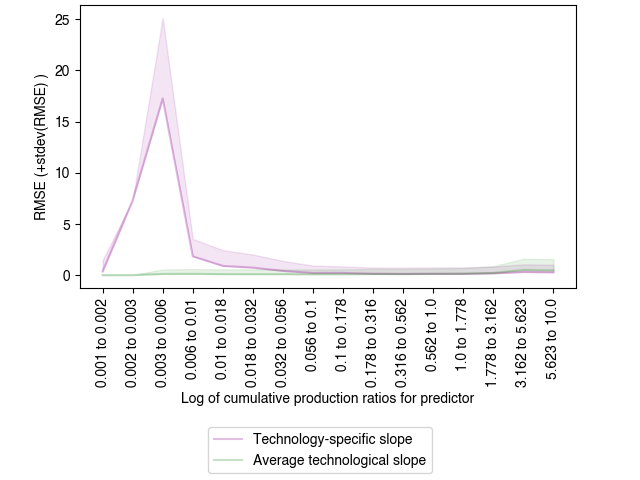
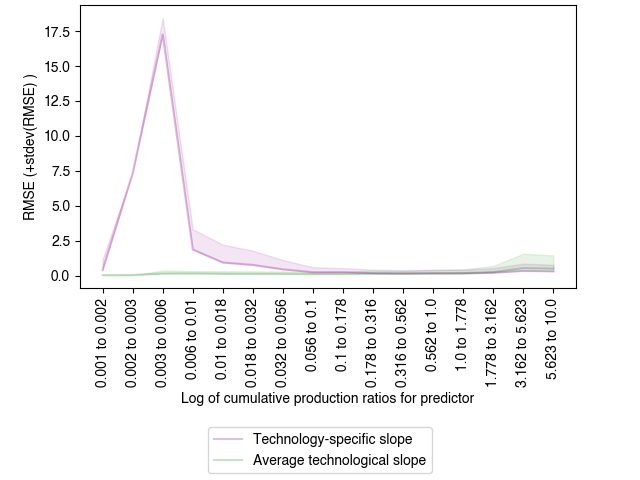
fixing mistake in prediction+error plot

diff --git a/Method2.py b/Method2.py
@@ -212,7 +212,7 @@ for i in range(std1.shape[0]):
 		if count[i,j] > 0:
 			plt.scatter(i,j,
 		      color=matplotlib.cm.viridis(norm(std1[i,j])),
-			  s=2+count[i,j]/100, alpha=0.5, lw=0.5, edgecolor='k')
+			  s=2+counttech[i,j]*2, alpha=0.5, lw=0.5, edgecolor='k')
 plt.gca().set_xticks([x for x in range(len(frac)-1)], 
         [str(round(x,3))+' to '+str(round(y,3)) for x, y in zip(frac[:-1], frac[1:])],
         rotation = 90)
@@ -223,8 +223,8 @@ plt.xlabel('Log of cumulative production ratios for predictor')
 plt.colorbar(matplotlib.cm.ScalarMappable(cmap='viridis', norm=norm), 
 	     label='Std of RMSE')
 legend_elements = [matplotlib.lines.Line2D([0],[0], lw=0, marker='o', markersize=2**0.5, color='k', label='1 data point'),
-		   matplotlib.lines.Line2D([0],[0], lw=0, marker='o', markersize=(2+np.max(count)/100)**0.5, color='k', label=str(int(np.max(count)))+' data points')]
-plt.gcf().legend(handles=legend_elements, ncol=2, title='Number of data points', loc='lower center')
+		   matplotlib.lines.Line2D([0],[0], lw=0, marker='o', markersize=(2+np.max(counttech*2))**0.5, color='k', label=str(int(np.max(counttech)))+' technologies')]
+plt.gcf().legend(handles=legend_elements, ncol=2, title='Number of technologies', loc='lower center')
 plt.subplots_adjust(bottom=0.4, left=0.2, right=0.95, top=0.9)
 plt.title('Technology-specific')
 
@@ -236,7 +236,7 @@ for i in range(std1.shape[0]):
 		if count[i,j] > 0:
 			plt.scatter(i,j,
 		      color=matplotlib.cm.viridis(norm(std2[i,j])),
-			  s=2+count[i,j]/100, alpha=0.5, lw=0.5, edgecolor='k')
+			  s=2+counttech[i,j]*2, alpha=0.5, lw=0.5, edgecolor='k')
 plt.gca().set_xticks([x for x in range(len(frac)-1)], 
         [str(round(x,3))+' to '+str(round(y,3)) for x, y in zip(frac[:-1], frac[1:])],
         rotation = 90)
@@ -246,9 +246,9 @@ plt.ylabel('Log of cumulative production ratios for prediction')
 plt.xlabel('Log of cumulative production ratios for predictor')
 plt.colorbar(matplotlib.cm.ScalarMappable(cmap='viridis', norm=norm), 
 	     label='Std of RMSE')
-legend_elements = [matplotlib.lines.Line2D([0],[0], lw=0, marker='o', markersize=2**0.5, color='k', label='1 data point'),
-		   matplotlib.lines.Line2D([0],[0], lw=0, marker='o', markersize=(2+np.max(count)/100)**0.5, color='k', label=str(int(np.max(count)))+' data points')]
-plt.gcf().legend(handles=legend_elements, ncol=2, title='Number of data points', loc='lower center')
+legend_elements = [matplotlib.lines.Line2D([0],[0], lw=0, marker='o', markersize=2**0.5, color='k', label='1 technology'),
+		   matplotlib.lines.Line2D([0],[0], lw=0, marker='o', markersize=(2+np.max(counttech)*2)**0.5, color='k', label=str(int(np.max(counttech)))+' technologies')]
+plt.gcf().legend(handles=legend_elements, ncol=2, title='Number of technologies', loc='lower center')
 plt.subplots_adjust(bottom=0.4, left=0.2, right=0.95, top=0.9)
 plt.title('Average technology')
 
@@ -271,61 +271,64 @@ cbar.set_label('RMSE difference')
 plt.subplots_adjust(bottom=0.3, left=0.2, right=0.95, top=0.9)
 plt.suptitle('Average technology - Technology-specific')
 
-# sel = df.loc[df['Tech']=='Photovoltaics']
-# x, y = np.log10(sel['Cumulative production'].values), np.log10(sel['Unit cost'].values)
-# H = len(x)
-# for i in range(H):
-# 	for N in range(i-1, -1, -1):
-# 		slope = (y[i] - y[N]) /\
-# 			(x[i] - x[N])
-# 		# add linear regression method
-# 		if method=='regression':
-# 			model = sm.OLS(y[N:i+1], sm.add_constant(x[N:i+1]))
-# 			result = model.fit()
-# 			slope = result.params[1]
-# 		# compute error associated using slope M points after midpoint
-# 		plt.figure(figsize=(8,7))
-# 		plt.scatter(10**x, 10**y, edgecolor='r', facecolor='none')
-# 		plt.scatter(10**x[N:i+1], 10**y[N:i+1], color='r')
-# 		for M in range(i+1, H):
-# 			pred =  y[i] + slope * (x[M] - x[i])
-# 			# if method=='regression':
-# 			# 	pred = result.params[0] + slope * x[M]
-# 			pred2 =  y[i] + slopeall * (x[M] - x[i])
-# 			plt.scatter(10**x[M], 10**pred, color='b')
-# 			plt.scatter(10**x[M], 10**pred2, color='g')
-# 			plt.xscale('log', base=10)
-# 			plt.yscale('log', base=10)
-# 			predordiff = x[i] - x[N]
-# 			predondiff = x[M] - x[i]
-# 			idxor = np.where(frac >= predordiff)[0][0]-1
-# 			idxon = np.where(frac >= predondiff)[0][0]-1
-# 			plt.plot([10**x[M],10**x[M]],
-# 	    		[10**(pred-std1[idxor][idxon]),10**(pred+std1[idxor][idxon])], ':',
-# 	    		marker='_', color='b', alpha = min(1.0, 0.1 + 0.9*counttech[idxor][idxon]/np.max(counttech)))
-# 			plt.plot([10**x[M],10**x[M]],
-# 	    		[10**(pred2-std2[idxor][idxon]),10**(pred2+std2[idxor][idxon])], '--',
-# 	    		marker='_', color='g', alpha = min(1.0, 0.1 + 0.9*counttech[idxor][idxon]/np.max(counttech)))
-# 		plt.title(sel['Tech'].values[0])
-# 		plt.xlabel('Cumulative production')
-# 		plt.ylabel('Unit cost')
-# 		legend_elements = [
-# 			matplotlib.lines.Line2D([0],[0], lw=0, label='$\\bf{Data\ points}$'),
-# 			matplotlib.lines.Line2D([0],[0], lw=0, marker='o', markersize=5, color='r', label='Observations'),
-# 			matplotlib.lines.Line2D([0],[0], lw=0, marker='o', markersize=5, color='b', label='Prediction - Technology-specific'),
-# 			matplotlib.lines.Line2D([0],[0], lw=0, marker='o', markersize=5, color='g', label='Prediction - Average technological slope'),
-# 			matplotlib.lines.Line2D([0],[0], lw=0, label='$\\bf{Uncertainty\ around\ predictions}$'),
-# 			matplotlib.lines.Line2D([0],[0], lw=1, ls=':', markersize=5, color='b', label='+/- 1 std (Technology-specific)'),
-# 			matplotlib.lines.Line2D([0],[0], lw=1, ls='--', markersize=5, color='g', label='+/- 1 std (Average technological slope)'),
-# 			matplotlib.lines.Line2D([0],[0], lw=0, label='$\\bf{Support\ for\ uncertainty\ estimation}$'),
-# 			matplotlib.lines.Line2D([0],[0], lw=1, alpha=1, color='k', label=str(int(np.max(counttech)))+' technologies'),
-# 			matplotlib.lines.Line2D([0],[0], lw=1, alpha=0.1, color='k', label='1 technology')
-# 		]
-# 		plt.gcf().legend(handles=legend_elements, loc='lower center')
-# 		plt.subplots_adjust(bottom=0.4, right=0.97, top=0.95, left=0.08)
-# 		plt.pause(.01)
-# 		input()
-# 		plt.close()
+sel = df.loc[df['Tech']=='Photovoltaics']
+x, y = np.log10(sel['Cumulative production'].values), np.log10(sel['Unit cost'].values)
+H = len(x)
+for i in range(H):
+	for N in range(i-1, -1, -1):
+		slope = (y[i] - y[N]) /\
+			(x[i] - x[N])
+		# add linear regression method
+		if method=='regression':
+			model = sm.OLS(y[N:i+1], sm.add_constant(x[N:i+1]))
+			result = model.fit()
+			slope = result.params[1]
+		# compute error associated using slope M points after midpoint
+		plt.figure(figsize=(8,7))
+		plt.scatter(10**x, 10**y, edgecolor='r', facecolor='none', zorder=10)
+		plt.scatter(10**x[N:i+1], 10**y[N:i+1], color='r', zorder=10)
+		for M in range(i+1, H):
+			pred =  y[i] + slope * (x[M] - x[i])
+			# if method=='regression':
+			# 	pred = result.params[0] + slope * x[M]
+			pred2 =  y[i] + slopeall * (x[M] - x[i])
+			plt.scatter(10**x[M], 10**pred, color='b', zorder=1)
+			plt.scatter(10**x[M], 10**pred2, color='g', zorder=1)
+			plt.xscale('log', base=10)
+			plt.yscale('log', base=10)
+			predordiff = x[i] - x[N]
+			predondiff = x[M] - x[i]
+			idxor = np.where(frac >= predordiff)[0][0]-1
+			idxon = np.where(frac >= predondiff)[0][0]-1
+			plt.plot([10**x[M],10**x[M]],
+	    		[10**(pred-mean1[idxor][idxon]),10**(pred+mean1[idxor][idxon])], ':',
+	    		marker='_', color='b', 
+				alpha = min(1.0, 0.1 + 0.9*counttech[idxor][idxon]/np.max(counttech)))
+			plt.plot([10**x[M],10**x[M]],
+	    		[10**(pred2-mean2[idxor][idxon]),10**(pred2+mean2[idxor][idxon])], '--',
+	    		marker='_', color='g', 
+				alpha = min(1.0, 0.1 + 0.9*counttech[idxor][idxon]/np.max(counttech)))
+		plt.title(sel['Tech'].values[0])
+		plt.xlabel('Cumulative production')
+		plt.ylabel('Unit cost')
+		legend_elements = [
+			matplotlib.lines.Line2D([0],[0], lw=0, label='$\\bf{Data\ points}$'),
+			matplotlib.lines.Line2D([0],[0], lw=0, marker='o', markersize=5, color='none', markeredgecolor='r', label='Observations'),
+			matplotlib.lines.Line2D([0],[0], lw=0, marker='o', markersize=5, color='r', label='Observations used to build technology-specific predictive model'),
+			matplotlib.lines.Line2D([0],[0], lw=0, marker='o', markersize=5, color='b', label='Prediction - Technology-specific'),
+			matplotlib.lines.Line2D([0],[0], lw=0, marker='o', markersize=5, color='g', label='Prediction - Average technological slope'),
+			matplotlib.lines.Line2D([0],[0], lw=0, label='$\\bf{Uncertainty\ around\ predictions}$'),
+			matplotlib.lines.Line2D([0],[0], lw=1, ls=':', markersize=5, color='b', label='+/- 1 RMSE (Technology-specific)'),
+			matplotlib.lines.Line2D([0],[0], lw=1, ls='--', markersize=5, color='g', label='+/- 1 RMSE (Average technological slope)'),
+			matplotlib.lines.Line2D([0],[0], lw=0, label='$\\bf{Number\ of\ technologies\ used\ to\ estimate\ uncertainty\ (both\ methods)}$'),
+			matplotlib.lines.Line2D([0],[0], lw=1, alpha=1, color='k', label=str(int(np.max(counttech)))+' technologies'),
+			matplotlib.lines.Line2D([0],[0], lw=1, alpha=0.1, color='k', label='1 technology')
+		]
+		plt.gcf().legend(handles=legend_elements, loc='lower center')
+		plt.subplots_adjust(bottom=0.425, right=0.97, top=0.95, left=0.08)
+		plt.pause(.01)
+		input()
+		plt.close()
 
 
 plt.figure()
@@ -350,29 +353,27 @@ plt.gcf().legend(handles=legend_elements, ncol=2, title='Number of data points',
 plt.subplots_adjust(bottom=0.4, left=0.2, right=0.95, top=0.9)
 plt.title('Average technology - Technology-specific')
 
-plt.figure()
-for i in range(mean1.shape[0]):
-	for j in range(mean1.shape[1]-1,-1,-1):
-		if counttech[i,j] > 0:
-			plt.scatter(i,j,
-		      color=matplotlib.cm.RdBu_r(divnorm(meandiff[i,j].flatten())),
-			  s=2+counttech[i,j]*2, alpha=0.5, lw=0.5, edgecolor='k')
-plt.gca().set_xticks([x for x in range(len(frac)-1)], 
-        [str(round(x,3))+' to '+str(round(y,3)) for x, y in zip(frac[:-1], frac[1:])],
-        rotation = 90)
-plt.gca().set_yticks([x for x in range(len(frac)-1)], 
-        [str(round(x,3))+' to '+str(round(y,3)) for x, y in zip(frac[:-1], frac[1:])])
-plt.ylabel('Log of cumulative production ratios for prediction')
-plt.xlabel('Log of cumulative production ratios for predictor')
-plt.colorbar(matplotlib.cm.ScalarMappable(cmap='RdBu_r', norm=divnorm), 
-	     label='RMSE difference')
-legend_elements = [matplotlib.lines.Line2D([0],[0], lw=0, marker='o', markersize=2**0.5, color='k', label='1 technology'),
-		   matplotlib.lines.Line2D([0],[0], lw=0, marker='o', markersize=(2+np.max(counttech)*2)**0.5, color='k', label=str(int(np.max(counttech)))+' technologies')]
-plt.gcf().legend(handles=legend_elements, ncol=2, title='Number of technologies', loc='lower center')
-plt.subplots_adjust(bottom=0.4, left=0.2, right=0.95, top=0.9)
-plt.title('Average technology - Technology-specific')
-
-plt.show()
+# plt.figure()
+# for i in range(mean1.shape[0]):
+# 	for j in range(mean1.shape[1]-1,-1,-1):
+# 		if counttech[i,j] > 0:
+# 			plt.scatter(i,j,
+# 		      color=matplotlib.cm.RdBu_r(divnorm(meandiff[i,j].flatten())),
+# 			  s=2+counttech[i,j]*2, alpha=0.5, lw=0.5, edgecolor='k')
+# plt.gca().set_xticks([x for x in range(len(frac)-1)], 
+#         [str(round(x,3))+' to '+str(round(y,3)) for x, y in zip(frac[:-1], frac[1:])],
+#         rotation = 90)
+# plt.gca().set_yticks([x for x in range(len(frac)-1)], 
+#         [str(round(x,3))+' to '+str(round(y,3)) for x, y in zip(frac[:-1], frac[1:])])
+# plt.ylabel('Log of cumulative production ratios for prediction')
+# plt.xlabel('Log of cumulative production ratios for predictor')
+# plt.colorbar(matplotlib.cm.ScalarMappable(cmap='RdBu_r', norm=divnorm), 
+# 	     label='RMSE difference')
+# legend_elements = [matplotlib.lines.Line2D([0],[0], lw=0, marker='o', markersize=2**0.5, color='k', label='1 technology'),
+# 		   matplotlib.lines.Line2D([0],[0], lw=0, marker='o', markersize=(2+np.max(counttech)*2)**0.5, color='k', label=str(int(np.max(counttech)))+' technologies')]
+# plt.gcf().legend(handles=legend_elements, ncol=2, title='Number of technologies', loc='lower center')
+# plt.subplots_adjust(bottom=0.4, left=0.2, right=0.95, top=0.9)
+# plt.title('Average technology - Technology-specific')
 
 
 plt.figure()
